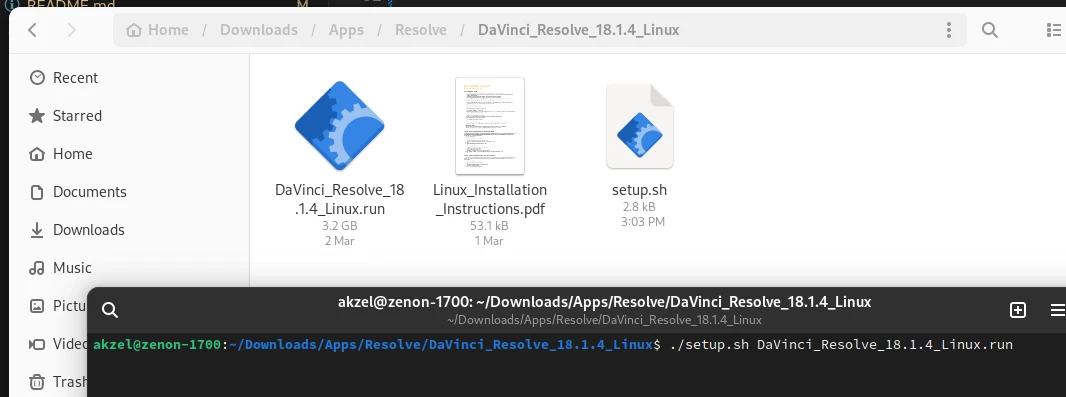
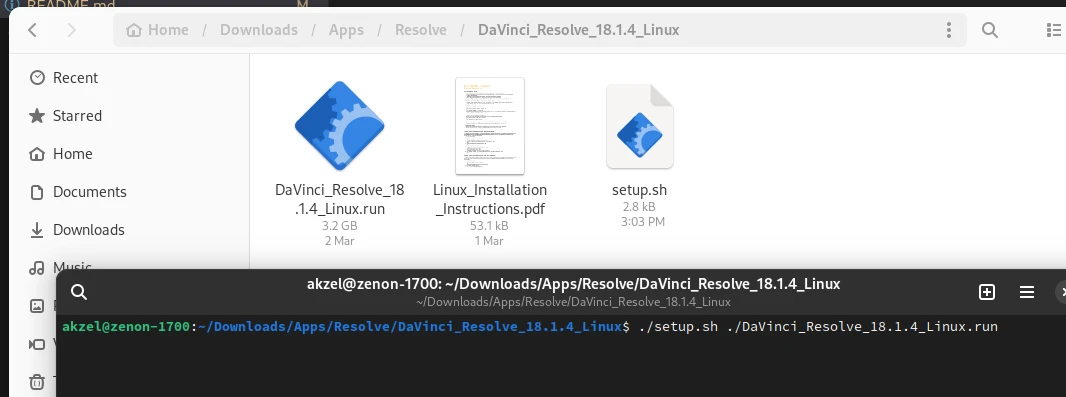
docs: Fix script use command
On my main system, `./setup.sh DaVinci_Resolve_version_Linux.run` works
fine, but not on other systems I tested on. Adding `./` in front of the
argument works around this

Changed region(s): [[0.031, 0.665, 1.0, 1.0], [0.0, 0.0, 0.3096, 0.0605], [0.3405, 0.0, 0.3715, 0.0302]]

diff --git a/README.md b/README.md
@@ -47,7 +47,7 @@ Right-click on an empty spot in the folder. You should see either "Open in Conso
 In the newly-opened terminal window, enter the command below. Replace 'version' with the version of DaVinci Resolve that you are installing (see screenshot for example):
 
 ```
-./setup.sh DaVinci_Resolve_version_Linux.run
+./setup.sh ./DaVinci_Resolve_version_Linux.run
 ```
 
 ![](screenshots/setup_05.webp)
